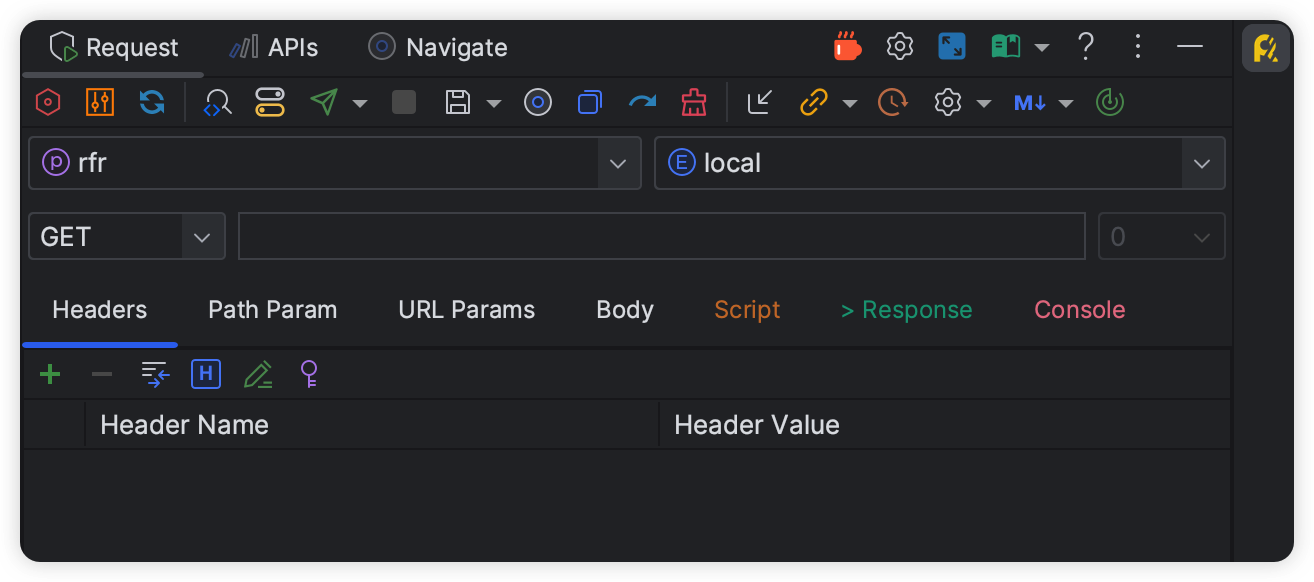
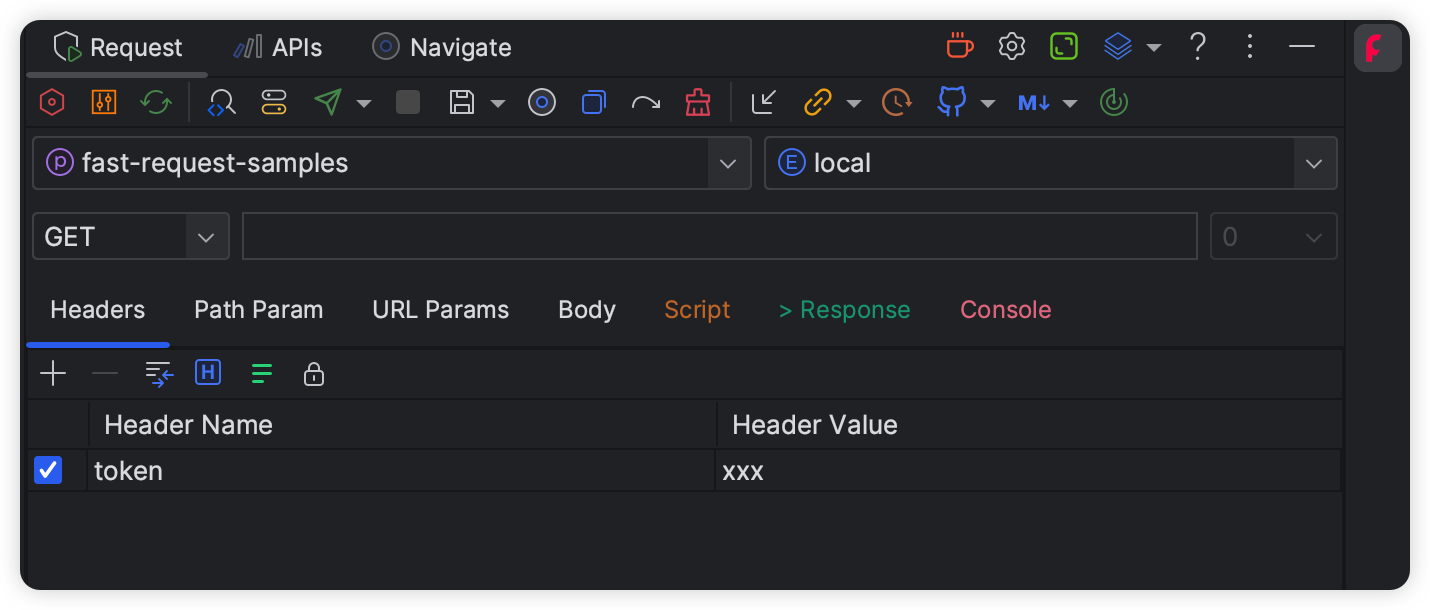
doc

diff --git a/docs/.vuepress/config.ts b/docs/.vuepress/config.ts
@@ -16,7 +16,7 @@ export default defineUserConfig({
         href: "/fast-request/img/fastRequest.svg",
       },
     ],
-    ["script", { src: "//at.alicdn.com/t/c/font_2601581_3crmlts10mc.js" }],
+    ["script", { src: "//at.alicdn.com/t/c/font_2601581_l0ynbo29c5j.js" }],
     ["script", { src: "/fast-request/js/baidu.js" }],
   ],
 

diff --git a/docs/en/guide/versionCompare.md b/docs/en/guide/versionCompare.md
@@ -69,7 +69,7 @@ The paid version will introduce more **excellent** and **user-friendly** functio
         </li>
         <li class="task-list-item">
             <input type="checkbox" class="task-list-item-checkbox" id="task-item-0" checked="checked" disabled="disabled">
-            <a class="task-list-item-label" href="/fast-request/en/guide/features/navigateCurrentMethod.html" ><svg class="icon svg-icon" aria-hidden="true"><use xlink:href="#icon-localScopeAction"></use></svg> Navigate to current method</a>
+            <a class="task-list-item-label" href="/fast-request/en/guide/features/navigateCurrentMethod.html" ><svg class="icon svg-icon" aria-hidden="true"><use xlink:href="#icon-localScope"></use></svg> Navigate to current method</a>
         </li>
         <li class="task-list-item">
             <input type="checkbox" class="task-list-item-checkbox" id="task-item-0" checked="checked" disabled="disabled">
@@ -77,7 +77,7 @@ The paid version will introduce more **excellent** and **user-friendly** functio
         </li>
         <li class="task-list-item">
             <input type="checkbox" class="task-list-item-checkbox" id="task-item-0" checked="checked" disabled="disabled">
-            <a href="/fast-request/en/guide/features/tempRequest.html" class="task-list-item-label" ><svg class="icon svg-icon" aria-hidden="true"><use xlink:href="#icon-drafting"></use></svg> Temporary request</a>
+            <a href="/fast-request/en/guide/features/tempRequest.html" class="task-list-item-label" ><svg class="icon svg-icon" aria-hidden="true"><use xlink:href="#icon-saveTemp"></use></svg> Temporary request</a>
         </li>
         <li class="task-list-item">
             <input type="checkbox" class="task-list-item-checkbox" id="task-item-0" checked="checked" disabled="disabled">
@@ -85,7 +85,7 @@ The paid version will introduce more **excellent** and **user-friendly** functio
         </li>
         <li class="task-list-item">
             <input type="checkbox" class="task-list-item-checkbox" id="task-item-0" checked="checked" disabled="disabled">
-            <a href="/fast-request/en/guide/features/clear.html" class="task-list-item-label" ><svg class="icon svg-icon" aria-hidden="true"><use xlink:href="#icon-import"></use></svg> cURL import</a>
+            <a href="/fast-request/en/guide/features/curlImport.html" class="task-list-item-label" ><svg class="icon svg-icon" aria-hidden="true"><use xlink:href="#icon-import"></use></svg> cURL import</a>
         </li>
         <li class="task-list-item">
             <input type="checkbox" class="task-list-item-checkbox" id="task-item-0" checked="checked" disabled="disabled">
@@ -93,7 +93,7 @@ The paid version will introduce more **excellent** and **user-friendly** functio
         </li>
         <li class="task-list-item">
             <input type="checkbox" class="task-list-item-checkbox" id="task-item-0" checked="checked" disabled="disabled">
-            <a href="/fast-request/en/guide/features/historyRequest.html" class="task-list-item-label" ><svg class="icon svg-icon" aria-hidden="true"><use xlink:href="#icon-history"></use></svg> History request</a>
+            <a href="/fast-request/en/guide/features/historyRequest.html" class="task-list-item-label" ><svg class="icon svg-icon" aria-hidden="true"><use xlink:href="#icon-historyNew"></use></svg> History request</a>
         </li>
         <li class="task-list-item">
             <input type="checkbox" class="task-list-item-checkbox" id="task-item-0" checked="checked" disabled="disabled">
@@ -101,7 +101,7 @@ The paid version will introduce more **excellent** and **user-friendly** functio
         </li>
         <li class="task-list-item">
             <input type="checkbox" class="task-list-item-checkbox" id="task-item-0" checked="checked" disabled="disabled">
-            <a href="/fast-request/en/guide/features/shareApiDoc.html" class="task-list-item-label" ><svg class="icon svg-icon" aria-hidden="true"><use xlink:href="#icon-shareDark"></use></svg> API document share</a>
+            <a href="/fast-request/en/guide/features/shareApiDoc.html" class="task-list-item-label" ><svg class="icon svg-icon" aria-hidden="true"><use xlink:href="#icon-markdown"></use></svg> API document share</a>
         </li>
         <li class="task-list-item">
             <input type="checkbox" class="task-list-item-checkbox" id="task-item-0" checked="checked" disabled="disabled">
@@ -121,7 +121,7 @@ The paid version will introduce more **excellent** and **user-friendly** functio
         </li>
 <li class="task-list-item">
             <input type="checkbox" class="task-list-item-checkbox" id="task-item-0" checked="checked" disabled="disabled">
-            <a href="/fast-request/en/guide/features/batchExportApiDoc.html" class="task-list-item-label" ><svg class="icon svg-icon" aria-hidden="true"><use xlink:href="#icon-shareDark"></use></svg> Batch export API doc</a>
+            <a href="/fast-request/en/guide/features/batchExportApiDoc.html" class="task-list-item-label" ><svg class="icon svg-icon" aria-hidden="true"><use xlink:href="#icon-markdown"></use></svg> Batch export API doc</a>
         </li>
         <li class="task-list-item">
             <input type="checkbox" class="task-list-item-checkbox" id="task-item-0" checked="checked" disabled="disabled">
@@ -145,7 +145,7 @@ The paid version will introduce more **excellent** and **user-friendly** functio
         </li>
         <li class="task-list-item">
             <input type="checkbox" class="task-list-item-checkbox" id="task-item-0" checked="checked" disabled="disabled">
-            <a href="/fast-request/en/guide/features/annualReport.html" class="task-list-item-label" ><svg class="icon svg-icon" aria-hidden="true"><use xlink:href="#icon-analyse"></use></svg> Annual report</a>
+            <a href="/fast-request/en/guide/features/annualReport.html" class="task-list-item-label" ><svg class="icon svg-icon" aria-hidden="true"><use xlink:href="#icon-analyseNew"></use></svg> Annual report</a>
         </li>
         <li class="task-list-item">
             <input type="checkbox" class="task-list-item-checkbox" id="task-item-0" checked="checked" disabled="disabled">

diff --git a/docs/README.md b/docs/README.md
@@ -138,7 +138,7 @@ preview="/img/logo/homepage.png"
         </li>
         <li class="task-list-item">
             <input type="checkbox" class="task-list-item-checkbox" id="task-item-0" checked="checked" disabled="disabled">
-            <a class="task-list-item-label" href="/fast-request/guide/features/navigateCurrentMethod.html" ><svg class="icon svg-icon" aria-hidden="true"><use xlink:href="#icon-localScopeAction"></use></svg>当前方法定位</a>
+            <a class="task-list-item-label" href="/fast-request/guide/features/navigateCurrentMethod.html" ><svg class="icon svg-icon" aria-hidden="true"><use xlink:href="#icon-localScope"></use></svg>当前方法定位</a>
         </li>
         <li class="task-list-item">
             <input type="checkbox" class="task-list-item-checkbox" id="task-item-0" checked="checked" disabled="disabled">
@@ -146,15 +146,15 @@ preview="/img/logo/homepage.png"
         </li>
         <li class="task-list-item">
             <input type="checkbox" class="task-list-item-checkbox" id="task-item-0" checked="checked" disabled="disabled">
-            <a href="/fast-request/guide/features/tempRequest.html" class="task-list-item-label" ><svg class="icon svg-icon" aria-hidden="true"><use xlink:href="#icon-drafting"></use></svg> 临时请求</a>
+            <a href="/fast-request/guide/features/tempRequest.html" class="task-list-item-label" ><svg class="icon svg-icon" aria-hidden="true"><use xlink:href="#icon-saveTemp"></use></svg> 临时请求</a>
         </li>
         <li class="task-list-item">
             <input type="checkbox" class="task-list-item-checkbox" id="task-item-0" checked="checked" disabled="disabled">
-            <a href="/fast-request/guide/features/clear.html" class="task-list-item-label" ><svg class="icon svg-icon" aria-hidden="true"><use xlink:href="#icon-clear"></use></svg> 一键清除参数</a>
+            <a href="/fast-request/guide/features/clear.html" class="task-list-item-label" ><svg class="icon svg-icon" aria-hidden="true"><use xlink:href="#icon-clearNew"></use></svg> 一键清除参数</a>
         </li>
         <li class="task-list-item">
             <input type="checkbox" class="task-list-item-checkbox" id="task-item-0" checked="checked" disabled="disabled">
-            <a href="/fast-request/guide/features/clear.html" class="task-list-item-label" ><svg class="icon svg-icon" aria-hidden="true"><use xlink:href="#icon-import"></use></svg> cURL 导入</a>
+            <a href="/fast-request/guide/features/curlImport.html" class="task-list-item-label" ><svg class="icon svg-icon" aria-hidden="true"><use xlink:href="#icon-import"></use></svg> cURL 导入</a>
         </li>
         <li class="task-list-item">
             <input type="checkbox" class="task-list-item-checkbox" id="task-item-0" checked="checked" disabled="disabled">
@@ -162,7 +162,7 @@ preview="/img/logo/homepage.png"
         </li>
         <li class="task-list-item">
             <input type="checkbox" class="task-list-item-checkbox" id="task-item-0" checked="checked" disabled="disabled">
-            <a href="/fast-request/guide/features/historyRequest.html" class="task-list-item-label" ><svg class="icon svg-icon" aria-hidden="true"><use xlink:href="#icon-history"></use></svg> 历史请求预览</a>
+            <a href="/fast-request/guide/features/historyRequest.html" class="task-list-item-label" ><svg class="icon svg-icon" aria-hidden="true"><use xlink:href="#icon-historyNew"></use></svg> 历史请求预览</a>
         </li>
         <li class="task-list-item">
             <input type="checkbox" class="task-list-item-checkbox" id="task-item-0" checked="checked" disabled="disabled">
@@ -170,7 +170,7 @@ preview="/img/logo/homepage.png"
         </li>
         <li class="task-list-item">
             <input type="checkbox" class="task-list-item-checkbox" id="task-item-0" checked="checked" disabled="disabled">
-            <a href="/fast-request/guide/features/shareApiDoc.html" class="task-list-item-label" ><svg class="icon svg-icon" aria-hidden="true"><use xlink:href="#icon-shareDark"></use></svg> API 文档分享</a>
+            <a href="/fast-request/guide/features/shareApiDoc.html" class="task-list-item-label" ><svg class="icon svg-icon" aria-hidden="true"><use xlink:href="#icon-markdown"></use></svg> API 文档分享</a>
         </li>
         <li class="task-list-item">
             <input type="checkbox" class="task-list-item-checkbox" id="task-item-0" checked="checked" disabled="disabled">
@@ -190,7 +190,7 @@ preview="/img/logo/homepage.png"
         </li>
 <li class="task-list-item">
             <input type="checkbox" class="task-list-item-checkbox" id="task-item-0" checked="checked" disabled="disabled">
-            <a href="/fast-request/guide/features/batchExportApiDoc.html" class="task-list-item-label" ><svg class="icon svg-icon" aria-hidden="true"><use xlink:href="#icon-shareDark"></use></svg> 批量导出 API 文档</a>
+            <a href="/fast-request/guide/features/batchExportApiDoc.html" class="task-list-item-label" ><svg class="icon svg-icon" aria-hidden="true"><use xlink:href="#icon-markdown"></use></svg> 批量导出 API 文档</a>
         </li>
         <li class="task-list-item">
             <input type="checkbox" class="task-list-item-checkbox" id="task-item-0" checked="checked" disabled="disabled">
@@ -214,7 +214,7 @@ preview="/img/logo/homepage.png"
         </li>
         <li class="task-list-item">
             <input type="checkbox" class="task-list-item-checkbox" id="task-item-0" checked="checked" disabled="disabled">
-            <a href="/fast-request/guide/features/annualReport.html" class="task-list-item-label" ><svg class="icon svg-icon" aria-hidden="true"><use xlink:href="#icon-analyse"></use></svg> 年度报告</a>
+            <a href="/fast-request/guide/features/annualReport.html" class="task-list-item-label" ><svg class="icon svg-icon" aria-hidden="true"><use xlink:href="#icon-analyseNew"></use></svg> 年度报告</a>
         </li>
         <li class="task-list-item">
             <input type="checkbox" class="task-list-item-checkbox" id="task-item-0" checked="checked" disabled="disabled">

diff --git a/docs/guide/versionCompare.md b/docs/guide/versionCompare.md
@@ -69,7 +69,7 @@ title: 版本对比
         </li>
         <li class="task-list-item">
             <input type="checkbox" class="task-list-item-checkbox" id="task-item-0" checked="checked" disabled="disabled">
-            <a class="task-list-item-label" href="/fast-request/guide/features/navigateCurrentMethod.html" ><svg class="icon svg-icon" aria-hidden="true"><use xlink:href="#icon-localScopeAction"></use></svg>当前方法定位</a>
+            <a class="task-list-item-label" href="/fast-request/guide/features/navigateCurrentMethod.html" ><svg class="icon svg-icon" aria-hidden="true"><use xlink:href="#icon-localScope"></use></svg>当前方法定位</a>
         </li>
         <li class="task-list-item">
             <input type="checkbox" class="task-list-item-checkbox" id="task-item-0" checked="checked" disabled="disabled">
@@ -77,7 +77,7 @@ title: 版本对比
         </li>
         <li class="task-list-item">
             <input type="checkbox" class="task-list-item-checkbox" id="task-item-0" checked="checked" disabled="disabled">
-            <a href="/fast-request/guide/features/tempRequest.html" class="task-list-item-label" ><svg class="icon svg-icon" aria-hidden="true"><use xlink:href="#icon-drafting"></use></svg> 临时请求</a>
+            <a href="/fast-request/guide/features/tempRequest.html" class="task-list-item-label" ><svg class="icon svg-icon" aria-hidden="true"><use xlink:href="#icon-saveTemp"></use></svg> 临时请求</a>
         </li>
         <li class="task-list-item">
             <input type="checkbox" class="task-list-item-checkbox" id="task-item-0" checked="checked" disabled="disabled">
@@ -85,7 +85,7 @@ title: 版本对比
         </li>
         <li class="task-list-item">
             <input type="checkbox" class="task-list-item-checkbox" id="task-item-0" checked="checked" disabled="disabled">
-            <a href="/fast-request/guide/features/clear.html" class="task-list-item-label" ><svg class="icon svg-icon" aria-hidden="true"><use xlink:href="#icon-import"></use></svg> cURL 导入</a>
+            <a href="/fast-request/guide/features/curlImport.html" class="task-list-item-label" ><svg class="icon svg-icon" aria-hidden="true"><use xlink:href="#icon-import"></use></svg> cURL 导入</a>
         </li>
         <li class="task-list-item">
             <input type="checkbox" class="task-list-item-checkbox" id="task-item-0" checked="checked" disabled="disabled">
@@ -93,7 +93,7 @@ title: 版本对比
         </li>
         <li class="task-list-item">
             <input type="checkbox" class="task-list-item-checkbox" id="task-item-0" checked="checked" disabled="disabled">
-            <a href="/fast-request/guide/features/historyRequest.html" class="task-list-item-label" ><svg class="icon svg-icon" aria-hidden="true"><use xlink:href="#icon-history"></use></svg> 历史请求预览</a>
+            <a href="/fast-request/guide/features/historyRequest.html" class="task-list-item-label" ><svg class="icon svg-icon" aria-hidden="true"><use xlink:href="#icon-historyNew"></use></svg> 历史请求预览</a>
         </li>
         <li class="task-list-item">
             <input type="checkbox" class="task-list-item-checkbox" id="task-item-0" checked="checked" disabled="disabled">
@@ -101,7 +101,7 @@ title: 版本对比
         </li>
         <li class="task-list-item">
             <input type="checkbox" class="task-list-item-checkbox" id="task-item-0" checked="checked" disabled="disabled">
-            <a href="/fast-request/guide/features/shareApiDoc.html" class="task-list-item-label" ><svg class="icon svg-icon" aria-hidden="true"><use xlink:href="#icon-shareDark"></use></svg> API 文档分享</a>
+            <a href="/fast-request/guide/features/shareApiDoc.html" class="task-list-item-label" ><svg class="icon svg-icon" aria-hidden="true"><use xlink:href="#icon-markdown"></use></svg> API 文档分享</a>
         </li>
         <li class="task-list-item">
             <input type="checkbox" class="task-list-item-checkbox" id="task-item-0" checked="checked" disabled="disabled">
@@ -121,7 +121,7 @@ title: 版本对比
         </li>
 <li class="task-list-item">
             <input type="checkbox" class="task-list-item-checkbox" id="task-item-0" checked="checked" disabled="disabled">
-            <a href="/fast-request/guide/features/batchExportApiDoc.html" class="task-list-item-label" ><svg class="icon svg-icon" aria-hidden="true"><use xlink:href="#icon-shareDark"></use></svg> 批量导出 API 文档</a>
+            <a href="/fast-request/guide/features/batchExportApiDoc.html" class="task-list-item-label" ><svg class="icon svg-icon" aria-hidden="true"><use xlink:href="#icon-markdown"></use></svg> 批量导出 API 文档</a>
         </li>
         <li class="task-list-item">
             <input type="checkbox" class="task-list-item-checkbox" id="task-item-0" checked="checked" disabled="disabled">
@@ -145,7 +145,7 @@ title: 版本对比
         </li>        
         <li class="task-list-item">
             <input type="checkbox" class="task-list-item-checkbox" id="task-item-0" checked="checked" disabled="disabled">
-            <a href="/fast-request/guide/features/annualReport.html" class="task-list-item-label" ><svg class="icon svg-icon" aria-hidden="true"><use xlink:href="#icon-analyse"></use></svg> 年度报告</a>
+            <a href="/fast-request/guide/features/annualReport.html" class="task-list-item-label" ><svg class="icon svg-icon" aria-hidden="true"><use xlink:href="#icon-analyseNew"></use></svg> 年度报告</a>
         </li>
         <li class="task-list-item">
             <input type="checkbox" class="task-list-item-checkbox" id="task-item-0" checked="checked" disabled="disabled">

diff --git a/docs/en/README.md b/docs/en/README.md
@@ -122,7 +122,7 @@ head:
         </li>
         <li class="task-list-item">
             <input type="checkbox" class="task-list-item-checkbox" id="task-item-0" checked="checked" disabled="disabled">
-            <a class="task-list-item-label" href="/fast-request/en/guide/features/navigateCurrentMethod.html" ><svg class="icon svg-icon" aria-hidden="true"><use xlink:href="#icon-localScopeAction"></use></svg> Navigate to current method</a>
+            <a class="task-list-item-label" href="/fast-request/en/guide/features/navigateCurrentMethod.html" ><svg class="icon svg-icon" aria-hidden="true"><use xlink:href="#icon-localScope"></use></svg> Navigate to current method</a>
         </li>
         <li class="task-list-item">
             <input type="checkbox" class="task-list-item-checkbox" id="task-item-0" checked="checked" disabled="disabled">
@@ -130,7 +130,7 @@ head:
         </li>
         <li class="task-list-item">
             <input type="checkbox" class="task-list-item-checkbox" id="task-item-0" checked="checked" disabled="disabled">
-            <a href="/fast-request/en/guide/features/tempRequest.html" class="task-list-item-label" ><svg class="icon svg-icon" aria-hidden="true"><use xlink:href="#icon-drafting"></use></svg> Temporary request</a>
+            <a href="/fast-request/en/guide/features/tempRequest.html" class="task-list-item-label" ><svg class="icon svg-icon" aria-hidden="true"><use xlink:href="#icon-saveTemp"></use></svg> Temporary request</a>
         </li>
         <li class="task-list-item">
             <input type="checkbox" class="task-list-item-checkbox" id="task-item-0" checked="checked" disabled="disabled">
@@ -138,7 +138,7 @@ head:
         </li>
         <li class="task-list-item">
             <input type="checkbox" class="task-list-item-checkbox" id="task-item-0" checked="checked" disabled="disabled">
-            <a href="/fast-request/en/guide/features/clear.html" class="task-list-item-label" ><svg class="icon svg-icon" aria-hidden="true"><use xlink:href="#icon-import"></use></svg> cURL import</a>
+            <a href="/fast-request/en/guide/features/curlImport.html" class="task-list-item-label" ><svg class="icon svg-icon" aria-hidden="true"><use xlink:href="#icon-import"></use></svg> cURL import</a>
         </li>
         <li class="task-list-item">
             <input type="checkbox" class="task-list-item-checkbox" id="task-item-0" checked="checked" disabled="disabled">
@@ -146,7 +146,7 @@ head:
         </li>
         <li class="task-list-item">
             <input type="checkbox" class="task-list-item-checkbox" id="task-item-0" checked="checked" disabled="disabled">
-            <a href="/fast-request/en/guide/features/historyRequest.html" class="task-list-item-label" ><svg class="icon svg-icon" aria-hidden="true"><use xlink:href="#icon-history"></use></svg> History request</a>
+            <a href="/fast-request/en/guide/features/historyRequest.html" class="task-list-item-label" ><svg class="icon svg-icon" aria-hidden="true"><use xlink:href="#icon-historyNew"></use></svg> History request</a>
         </li>
         <li class="task-list-item">
             <input type="checkbox" class="task-list-item-checkbox" id="task-item-0" checked="checked" disabled="disabled">
@@ -154,7 +154,7 @@ head:
         </li>
         <li class="task-list-item">
             <input type="checkbox" class="task-list-item-checkbox" id="task-item-0" checked="checked" disabled="disabled">
-            <a href="/fast-request/en/guide/features/shareApiDoc.html" class="task-list-item-label" ><svg class="icon svg-icon" aria-hidden="true"><use xlink:href="#icon-shareDark"></use></svg> API document share</a>
+            <a href="/fast-request/en/guide/features/shareApiDoc.html" class="task-list-item-label" ><svg class="icon svg-icon" aria-hidden="true"><use xlink:href="#icon-markdown"></use></svg> API document share</a>
         </li>
         <li class="task-list-item">
             <input type="checkbox" class="task-list-item-checkbox" id="task-item-0" checked="checked" disabled="disabled">
@@ -174,7 +174,7 @@ head:
         </li>
 <li class="task-list-item">
             <input type="checkbox" class="task-list-item-checkbox" id="task-item-0" checked="checked" disabled="disabled">
-            <a href="/fast-request/en/guide/features/batchExportApiDoc.html" class="task-list-item-label" ><svg class="icon svg-icon" aria-hidden="true"><use xlink:href="#icon-shareDark"></use></svg> Batch export API doc</a>
+            <a href="/fast-request/en/guide/features/batchExportApiDoc.html" class="task-list-item-label" ><svg class="icon svg-icon" aria-hidden="true"><use xlink:href="#icon-markdown"></use></svg> Batch export API doc</a>
         </li>
         <li class="task-list-item">
             <input type="checkbox" class="task-list-item-checkbox" id="task-item-0" checked="checked" disabled="disabled">
@@ -198,7 +198,7 @@ head:
         </li>
         <li class="task-list-item">
             <input type="checkbox" class="task-list-item-checkbox" id="task-item-0" checked="checked" disabled="disabled">
-            <a href="/fast-request/en/guide/features/annualReport.html" class="task-list-item-label" ><svg class="icon svg-icon" aria-hidden="true"><use xlink:href="#icon-analyse"></use></svg> Annual report</a>
+            <a href="/fast-request/en/guide/features/annualReport.html" class="task-list-item-label" ><svg class="icon svg-icon" aria-hidden="true"><use xlink:href="#icon-analyseNew"></use></svg> Annual report</a>
         </li>
         <li class="task-list-item">
             <input type="checkbox" class="task-list-item-checkbox" id="task-item-0" checked="checked" disabled="disabled">

diff --git a/docs/en/guide/features/README.md b/docs/en/guide/features/README.md
@@ -35,7 +35,7 @@ The icon in the document corresponds to the button icon in the plugin
 - [<svg class="icon svg-icon" aria-hidden="true"><use xlink:href="#icon-settings"></use></svg> Setting manager](./settingManager.md)
 - [<svg class="icon svg-icon" aria-hidden="true"><use xlink:href="#icon-fullScreen"></use></svg> Full screen](./fullScreen.md)
 - [<svg class="icon svg-icon" aria-hidden="true"><use xlink:href="#icon-analyseNew"></use></svg> Annual report](./annualReport.md)
-- [<svg class="icon svg-icon" aria-hidden="true"><use xlink:href="#icon-doc1"></use></svg> Document / Contact](./docAndContact.md)
+- [<svg class="icon svg-icon" aria-hidden="true"><use xlink:href="#icon-doc"></use></svg> Document / Contact](./docAndContact.md)
 - [<svg class="icon svg-icon" aria-hidden="true"><use xlink:href="#icon-license"></use></svg> EULA](../eula.md)
 
 ---
@@ -44,7 +44,7 @@ The icon in the document corresponds to the button icon in the plugin
 - [<svg class="icon svg-icon" aria-hidden="true"><use xlink:href="#icon-openai"></use></svg> OpenAI API Optimising fields](./ai.md)
 - [<svg class="icon svg-icon" aria-hidden="true"><use xlink:href="#icon-headerGroupNew"></use></svg> Header group](./headerGroup.md)
 - [<svg class="icon svg-icon" aria-hidden="true"><use xlink:href="#icon-commonHeader"></use></svg> Common header](./commonHeader.md)
-- [<svg class="icon svg-icon" aria-hidden="true"><use xlink:href="#icon-basicAuthNew"></use></svg> Basei auth](./basicAuth.md)
+- [<svg class="icon svg-icon" aria-hidden="true"><use xlink:href="#icon-lock"></use></svg> Basei auth](./basicAuth.md)
 - [<svg class="icon svg-icon" aria-hidden="true"><use xlink:href="#icon-chrome"></use></svg> Html preview](./htmlPreview.md)
 
 ## Apis

diff --git a/docs/guide/features/README.md b/docs/guide/features/README.md
@@ -46,7 +46,7 @@ icon: featuresNew
 - [<svg class="icon svg-icon" aria-hidden="true"><use xlink:href="#icon-settings"></use></svg> 管理配置](./settingManager.md)
 - [<svg class="icon svg-icon" aria-hidden="true"><use xlink:href="#icon-fullScreen"></use></svg> 全屏](./fullScreen.md)
 - [<svg class="icon svg-icon" aria-hidden="true"><use xlink:href="#icon-analyseNew"></use></svg> 年度报告](./annualReport.md)
-- [<svg class="icon svg-icon" aria-hidden="true"><use xlink:href="#icon-doc1"></use></svg> 文档/快速联系](./docAndContact.md)
+- [<svg class="icon svg-icon" aria-hidden="true"><use xlink:href="#icon-doc"></use></svg> 文档/快速联系](./docAndContact.md)
 - [<svg class="icon svg-icon" aria-hidden="true"><use xlink:href="#icon-license"></use></svg> EULA](../eula.md)
 
 ---
@@ -55,7 +55,7 @@ icon: featuresNew
 - [<svg class="icon svg-icon" aria-hidden="true"><use xlink:href="#icon-openai"></use></svg> AI 字段替换](./ai.md)
 - [<svg class="icon svg-icon" aria-hidden="true"><use xlink:href="#icon-headerGroupNew"></use></svg> Headers 分组](./headerGroup.md)
 - [<svg class="icon svg-icon" aria-hidden="true"><use xlink:href="#icon-commonHeader"></use></svg> 常用头参数](./commonHeader.md)
-- [<svg class="icon svg-icon" aria-hidden="true"><use xlink:href="#icon-basicAuthNew"></use></svg> Basei auth](./basicAuth.md)
+- [<svg class="icon svg-icon" aria-hidden="true"><use xlink:href="#icon-lock"></use></svg> Basei auth](./basicAuth.md)
 - [<svg class="icon svg-icon" aria-hidden="true"><use xlink:href="#icon-chrome"></use></svg> Html 预览](./htmlPreview.md)
 
 ## Apis

diff --git a/docs/guide/history.md b/docs/guide/history.md
@@ -37,6 +37,7 @@ feat: <Badge text="新功能" type="tip"/> <span>&nbsp;&nbsp;&nbsp;&nbsp;</span>
 :::
 
 ## 2023.1.7 <Badge text="免费试用" type="tip"/> <Badge text="开发中..." color="LightPink"/>
+- <Badge text="全新扁平化图标" type="tip"/>
 - <Badge text="SearchEveryWhere加入过滤条件" type="tip"/>
 - <Badge text="精简版http图标" type="tip"/>
 - <Badge text="脚本片段插入优化" type="info"/>
@@ -44,6 +45,10 @@ feat: <Badge text="新功能" type="tip"/> <span>&nbsp;&nbsp;&nbsp;&nbsp;</span>
 - <Badge text="自动域名解析优化" type="info"/>
 - <Badge text="批量导出api文档" type="danger"/>
 - <Badge text="历史请求回显问题" type="danger"/>
+
+::: tip 全新扁平化图标
+![toolwindowNew](/img/toolwindowNew.png)
+:::
 
 ::: tip SearchEveryWhere加入过滤条件
 支持`module`、`methodType`、`library`搜索

diff --git a/docs/en/guide/history.md b/docs/en/guide/history.md
@@ -37,6 +37,7 @@ More details -> [Teamwork support](./teamwork.md)
 :::
 
 ## 2023.1.7 <Badge text="Free trial" type="tip"/> <Badge text="Developing..." color="LightPink"/>
+- <Badge text="Flat icon" type="tip"/>
 - <Badge text="SearchEveryWhere enhance" type="tip"/>
 - <Badge text="Slack support" type="tip"/>  
 - <Badge text="Compact http icon" type="tip"/>
@@ -45,6 +46,10 @@ More details -> [Teamwork support](./teamwork.md)
 - <Badge text="Optimize automatic domain parse" type="info"/>
 - <Badge text="Batch export api doc" type="danger"/>
 - <Badge text="History request echo data" type="danger"/>
+
+::: tip Flat icon
+![toolwindowNew](/img/toolwindowNew.png)
+:::
 
 ::: tip SearchEveryWhere enhance
 Add `module`、`methodType`、`library` condition

diff --git a/docs/guide/whatsnew.md b/docs/guide/whatsnew.md
@@ -41,6 +41,7 @@ feat: <Badge text="新功能" type="tip"/> <span>&nbsp;&nbsp;&nbsp;&nbsp;</span>
 [**务必查看变更详情----------------->**](./history.md)
 
 ## 2023.1.7 <Badge text="免费试用" type="tip"/> <Badge text="开发中..." color="LightPink"/>
+- <Badge text="全新扁平化图标" type="tip"/>
 - <Badge text="SearchEveryWhere加入过滤条件" type="tip"/>
 - <Badge text="精简版http图标" type="tip"/>
 - <Badge text="脚本片段插入优化" type="info"/>

diff --git a/docs/en/guide/whatsnew.md b/docs/en/guide/whatsnew.md
@@ -39,6 +39,7 @@ More details -> [Teamwork support](./teamwork.md)
 :::
 
 ## 2023.1.7 <Badge text="Free trial" type="tip"/> <Badge text="Developing..." color="LightPink"/>
+- <Badge text="Flat icon" type="tip"/>
 - <Badge text="SearchEveryWhere enhance" type="tip"/>
 - <Badge text="Slack support" type="tip"/>  
 - <Badge text="Compact http icon" type="tip"/>
